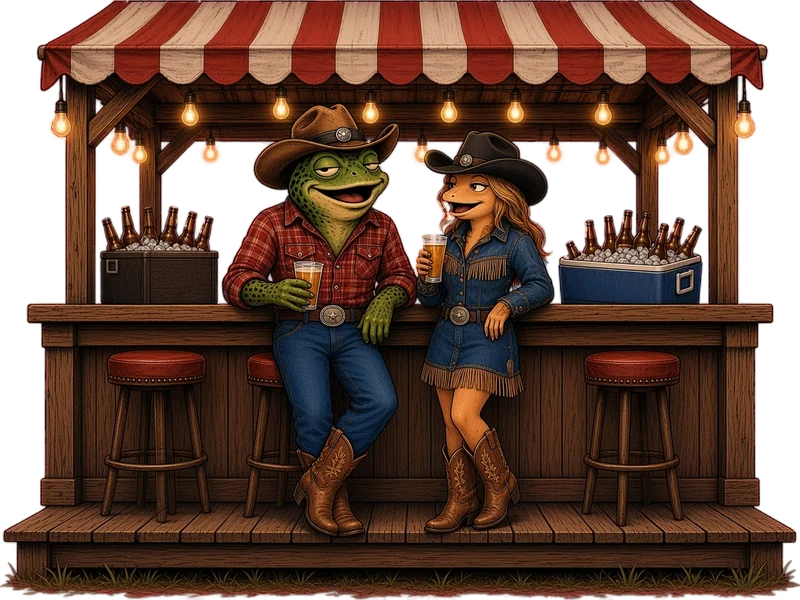
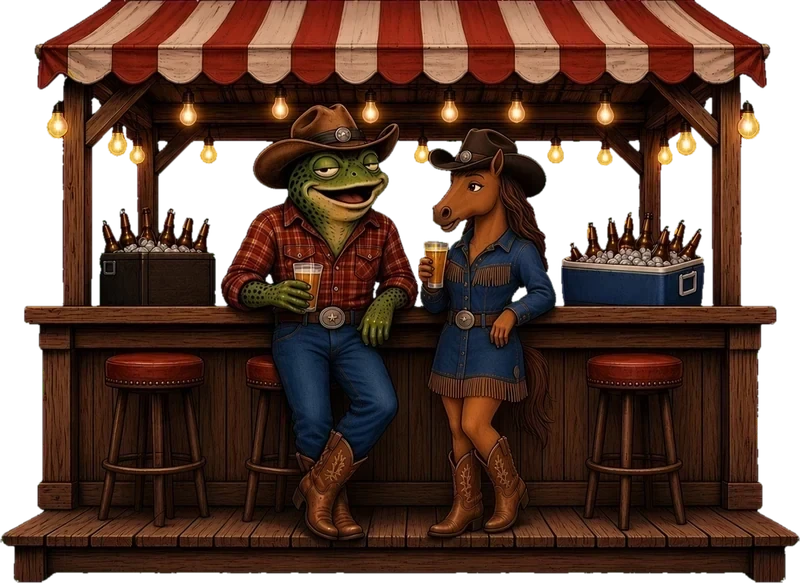
Main Stage VIP deck: swap cowgirl for a horse in denim fringe

diff --git a/main-stage/index.html b/main-stage/index.html
@@ -45,7 +45,7 @@
 
       <section class="panel feature right" id="deck">
         <div class="card"><h2>VIP Viewing Deck</h2><p>A raised deck with its own bar, cold longnecks on ice and the best view of the whole show.</p></div>
-        <div class="art" data-speed="-0.08"><img src="art/deck.webp?v=1" alt="A frog in a plaid shirt and a cowgirl in denim fringe leaning on a VIP deck bar with drinks"></div>
+        <div class="art" data-speed="-0.08"><img src="art/deck.webp?v=2" alt="A frog in a plaid shirt and a horse in a denim fringe dress leaning on a VIP deck bar with drinks"></div>
       </section>
 
       <section class="panel feature left" id="lawn">
